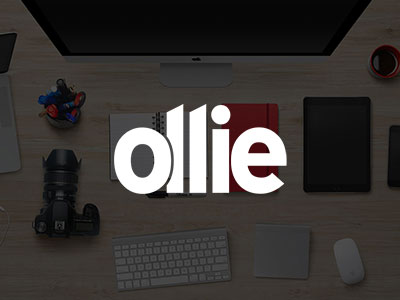
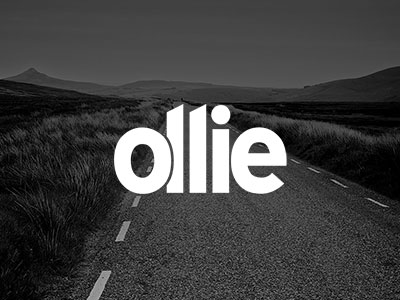
Fleshed out case studies.

diff --git a/app/assets/stylesheets/pages.css.scss b/app/assets/stylesheets/pages.css.scss
@@ -582,13 +582,14 @@
 	padding-top:41px;
 
 	.hero {
-		background:none;
-		background:#999;
 		height:200px;
+		background-size:cover;
 
 		h1 {
 			letter-spacing:0px;
 			margin-top:50px;
+			color:white;
+			text-shadow:2px 2px black;
 		}
 
 
@@ -616,3 +617,11 @@
 	}
 }
 
+.is-case-study .hero { background-image:url(/assets/is_header_bg.jpg); }
+.mydoma-case-study .hero { background-image:url(/assets/mydoma_header_bg.jpg); }
+.lspark-case-study .hero { background-image:url(/assets/lspark_header_bg.jpg); }
+.martello-case-study .hero { background-image:url(/assets/martello_header_bg.jpg); }
+.ollie-case-study .hero { background-image:url(/assets/ollie_header_bg.jpg); }
+.d3m-case-study .hero { background-image:url(/assets/d3m_header_bg.jpg); }
+.christine-kelly-case-study .hero { background-image:url(/assets/christinekelly_header_bg.jpg); }
+.solink-case-study .hero { background-image:url(/assets/solink_header_bg.jpg); }

diff --git a/app/controllers/pages_controller.rb b/app/controllers/pages_controller.rb
@@ -112,6 +112,10 @@ class PagesController < ApplicationController
   def solink
     @title = "Solink Explainer Video - Case Study"
   end
+
+  def christine_kelly
+    @title = "Christine Kelly PHD Web Application"
+  end
   
   private
   
